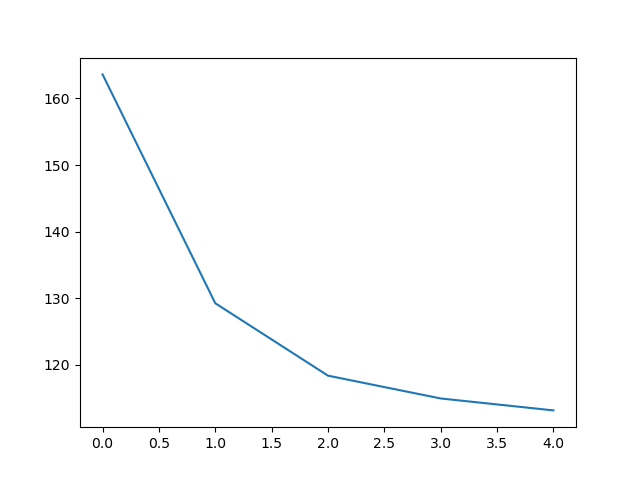
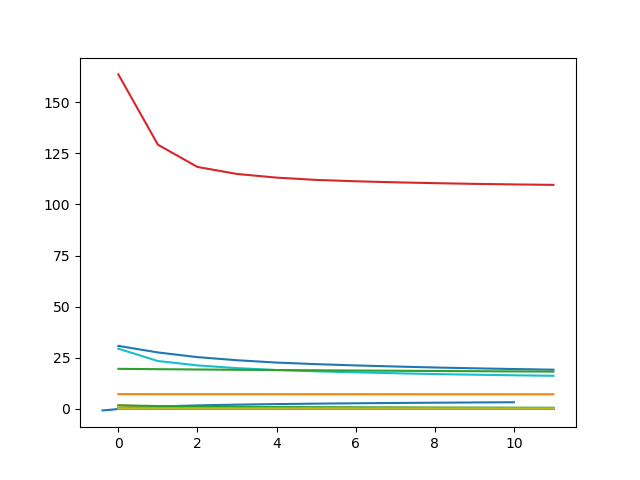
Minor tweaks, made n_iter for optimiser variable

diff --git a/level4.py b/level4.py
@@ -36,8 +36,9 @@ def optimise_JPw_2(data, step_size_effect, n_subsamples, N_E, N_I, contrasts, or
     print(loss)
 
 
-def optimise_JPw(data, step_size_effect, n_subsamples, N_E, N_I, contrasts, orientations, J_init, P_init, w_init, T_inv, tau, tau_ref, pref_E, pref_I, g, w_ff, sig_ext):
-    log_params = np.log(np.array([J_init, P_init, w_init]))
+def optimise_JPw(data, step_size_effect, n_subsamples, N_E, N_I, contrasts, orientations, J_init, P_init, w_init, T_inv, tau, tau_ref, pref_E, pref_I, g, w_ff, sig_ext, n_iter=12):
+    init_params = np.array([J_init, P_init, w_init])
+    log_params = np.log(init_params)
     rand_mat = level3.random_matrix(N_E + N_I)
 
     def optimising_func(log_params):
@@ -46,10 +47,11 @@ def optimise_JPw(data, step_size_effect, n_subsamples, N_E, N_I, contrasts, orie
 
     gradient_func = grad(optimising_func)
 
-    tracker = np.zeros((3, 4, 5))
-    loss_track = np.zeros((5,1))
+    tracker = np.zeros((3, 4, n_iter))
+    loss_track = np.zeros((n_iter, 1))
 
-    for i in range(5):
+
+    for i in range(n_iter):
         print("params: " + str(np.exp(log_params)))
         t0 = time.process_time()
 
@@ -71,13 +73,15 @@ def optimise_JPw(data, step_size_effect, n_subsamples, N_E, N_I, contrasts, orie
         tracker = tracker.at[:, 2:, i].set(np.exp(log_params[:, 1, :]))
         loss_track = loss_track.at[i].set(loss)
 
-    print(loss)
+    print("Final loss: " + str(loss))
+    print("Initial params: " + str(init_params))
+    print("Final params: " + str(np.exp(log_params)))
     
     for i in range(3):
-        plt.plot(range(5), tracker[i].T)
+        plt.plot(range(n_iter), tracker[i].T)
         plt.savefig(os.path.join("plots", ["J","P","w"][i] + "-opt.png"))
         plt.show()
 
-    plt.plot(range(5), loss_track)
+    plt.plot(range(n_iter), loss_track)
     plt.savefig(os.path.join("plots", "loss-opt.png"))
     plt.show()

diff --git a/Mouse.py b/Mouse.py
@@ -15,7 +15,7 @@ with open(os.path.join('Data', 'data_save.pkl'), 'rb') as f:
     data = pickle.load(f)
 
 # Network size
-N = 1000
+N = 10000
 
 N_E = int(.8 * N)
 N_I = N - N_E
@@ -119,6 +119,7 @@ def test4():
 
 
 if __name__ == "__main__":
+    jax.TF_CPP_MIN_LOG_LEVEL=0
 
     x = np.linspace(-10, 10, 101)
 
